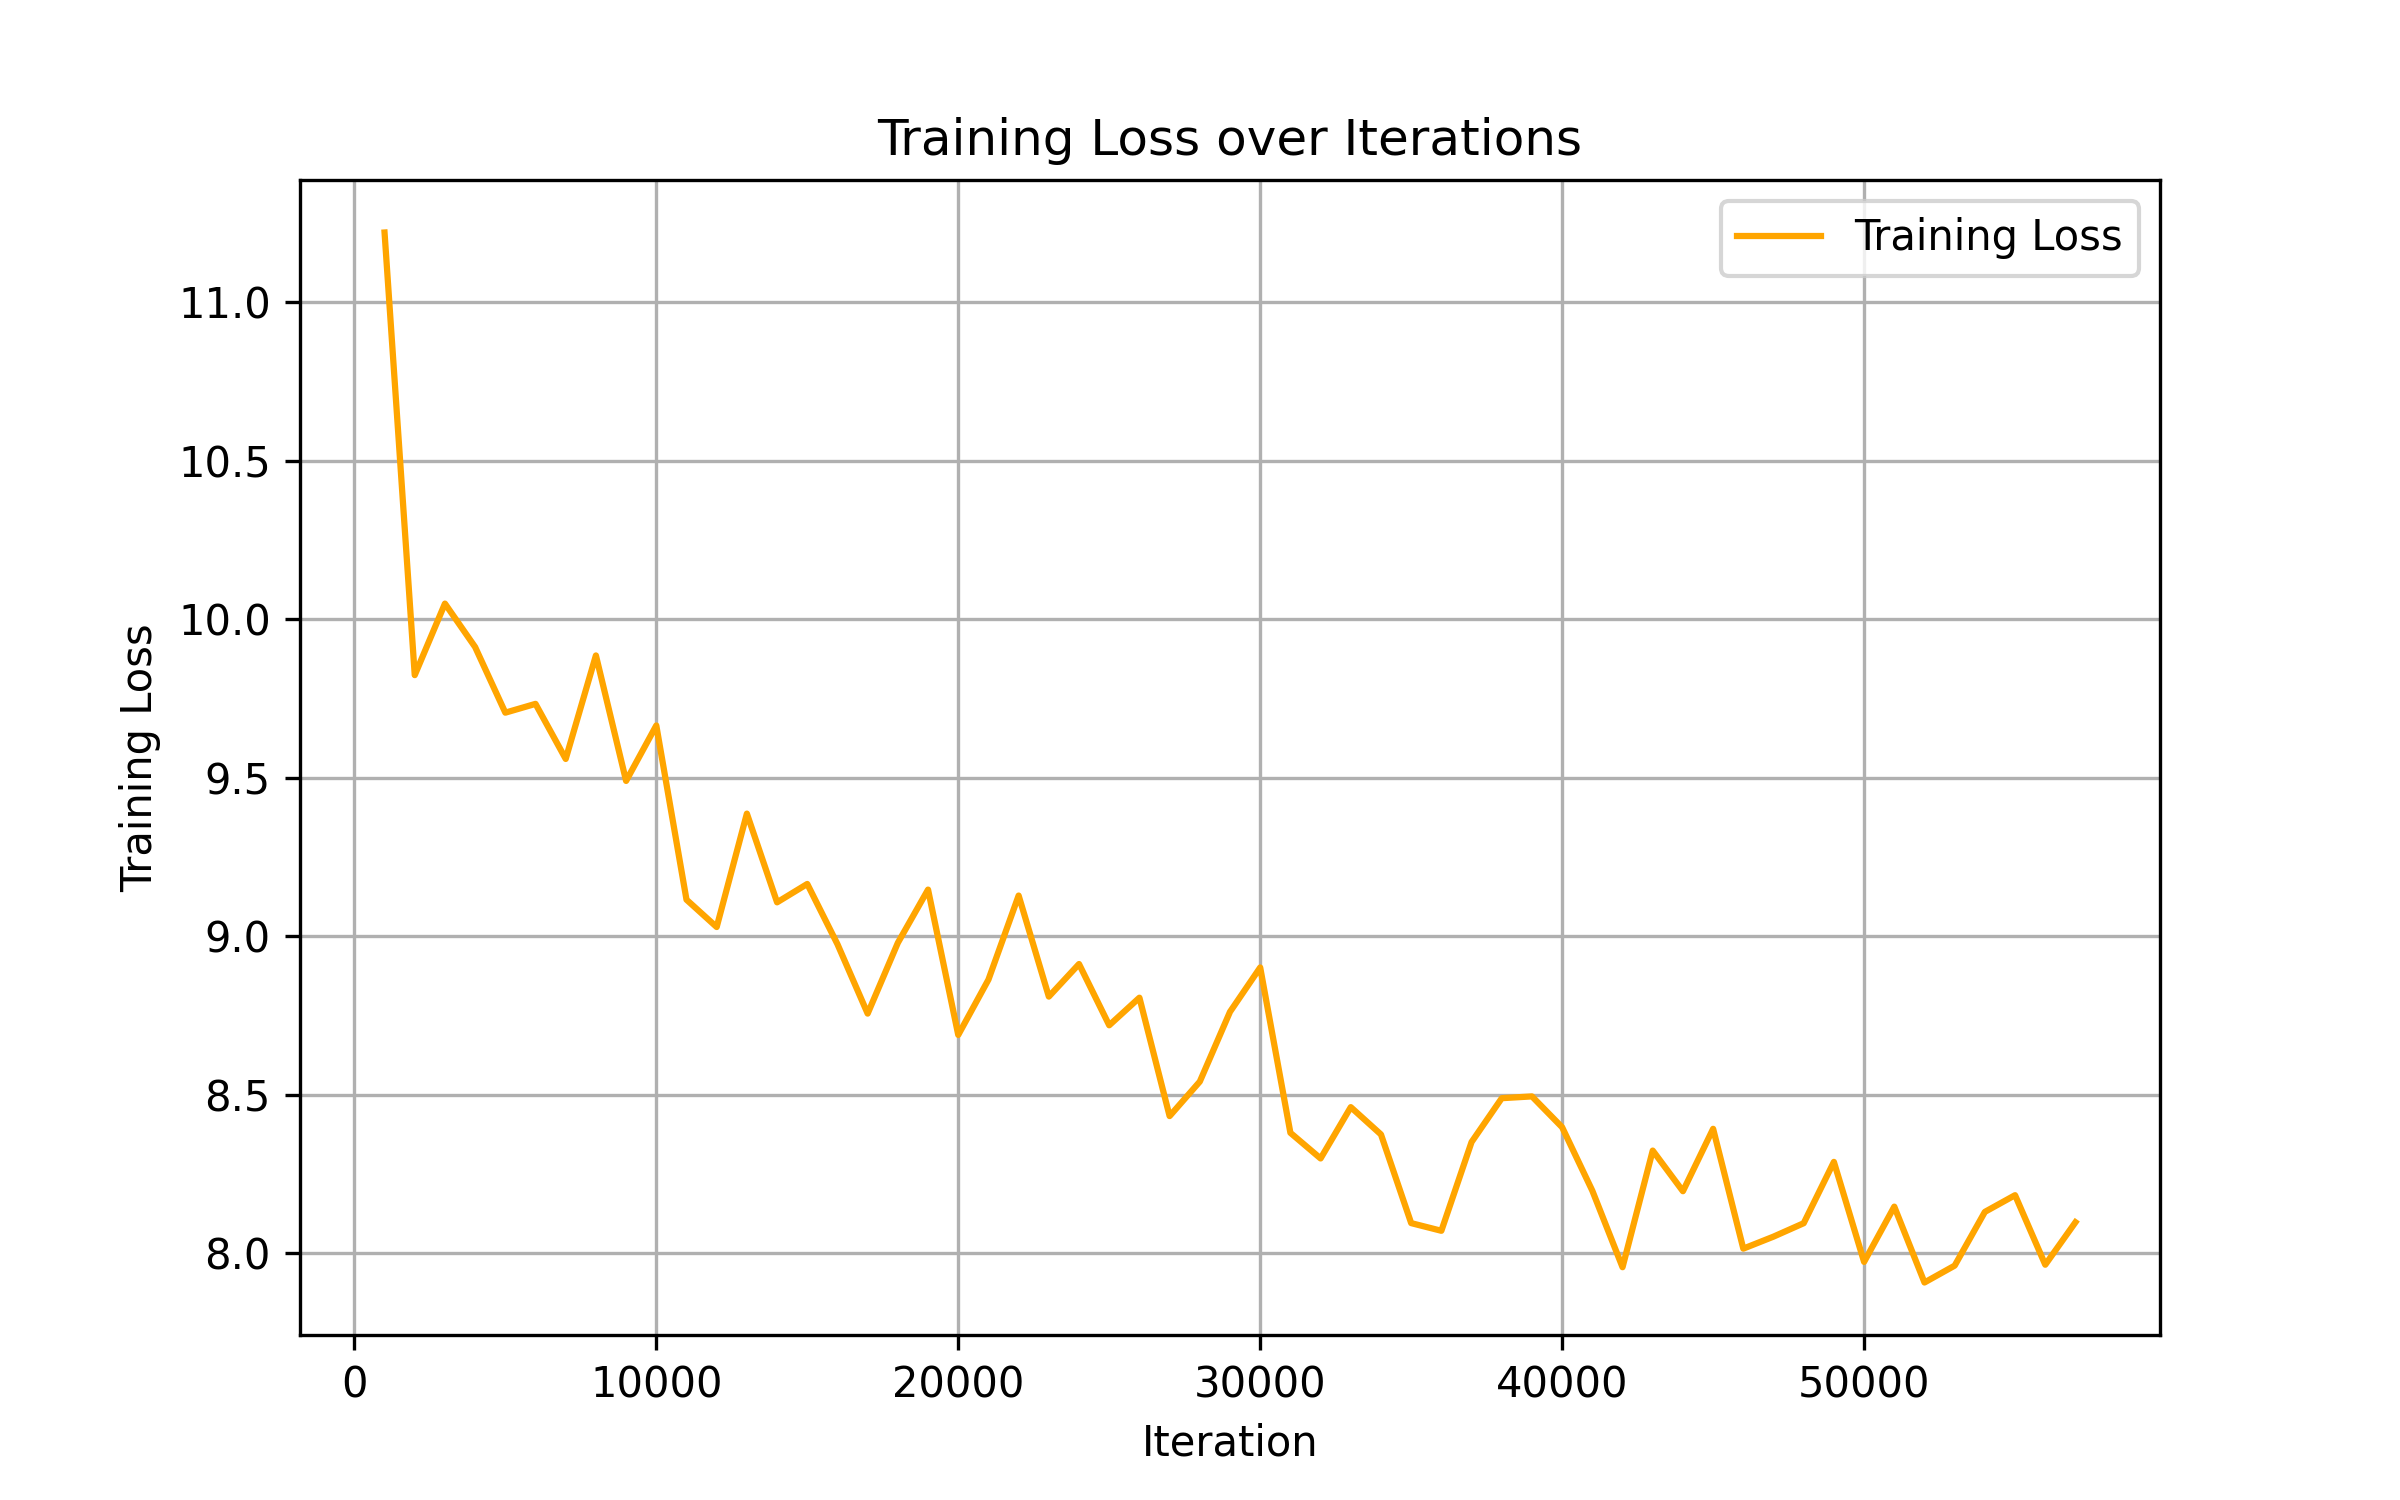
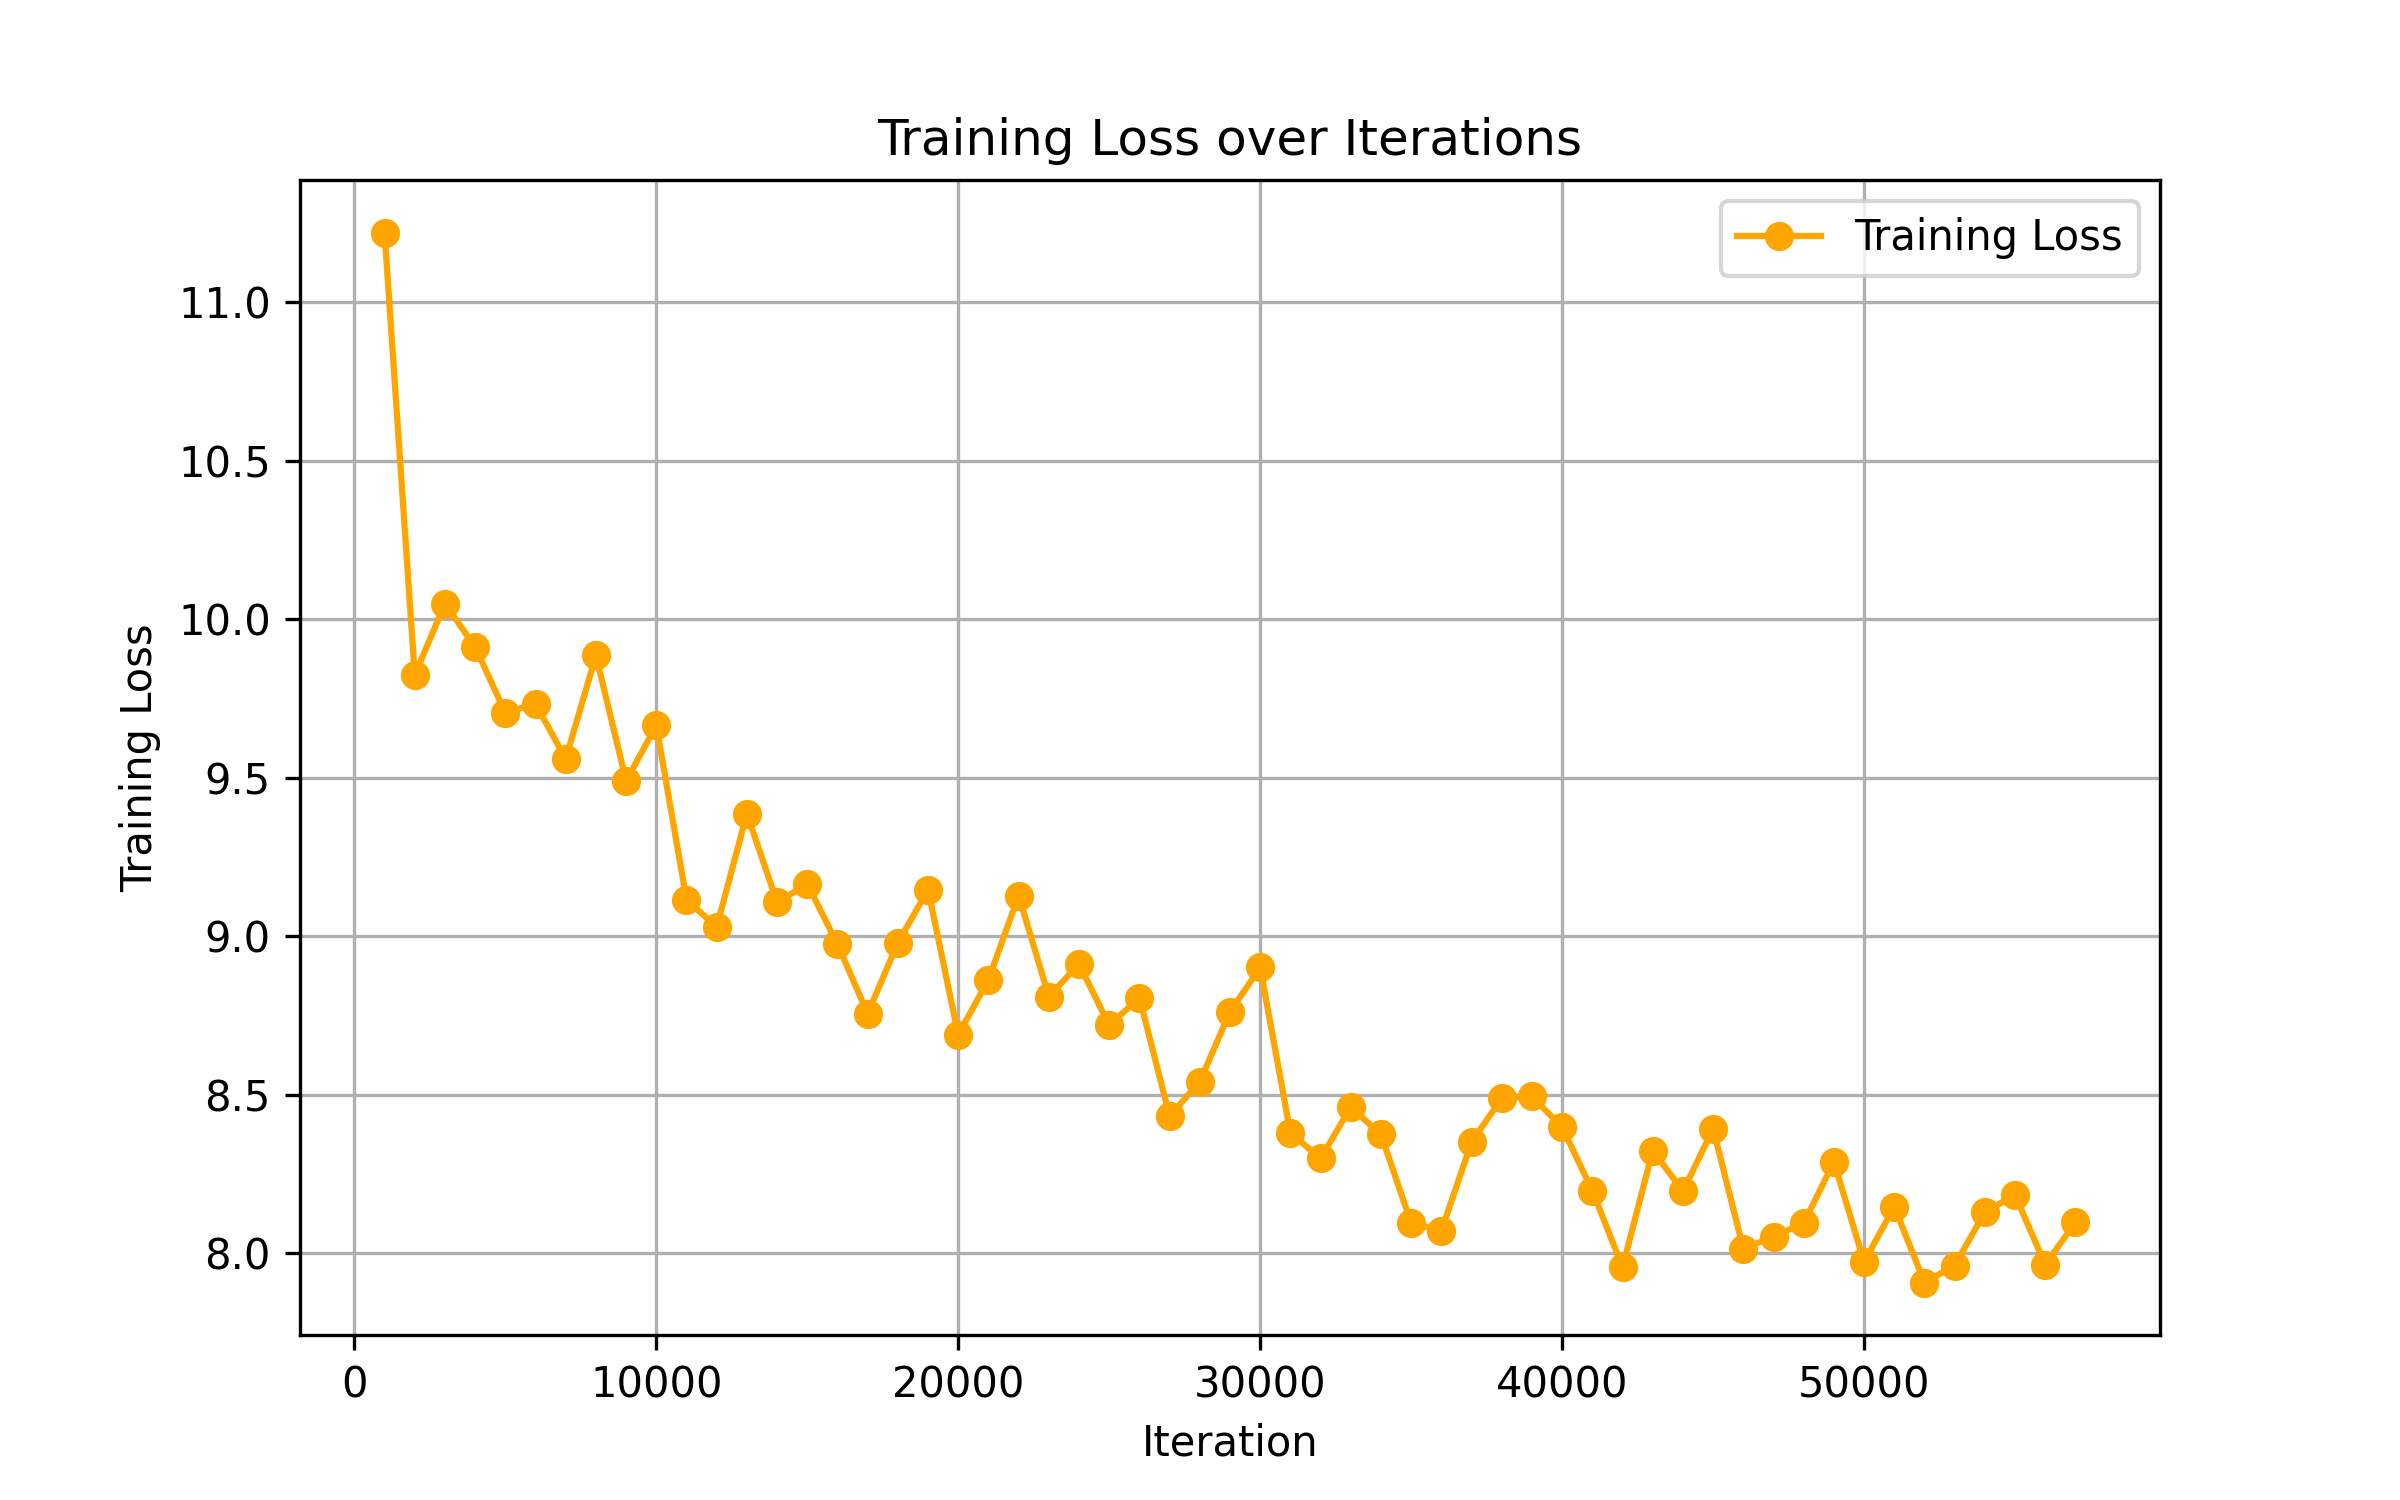
Figures and README

diff --git a/model_graphs.py b/model_graphs.py
@@ -5,6 +5,8 @@ import numpy as np
 
 # --- Paths ---
 logfile = "masif/data/masif_ppi_search/nn_models/sc05/all_feat/model_data/log.txt"
+pos_file = "pos_dists.npy"
+neg_file = "neg_dists.npy"
 
 # --- Regex patterns ---
 iter_pattern = re.compile(r"Iteration (\d+) validation roc auc: ([0-9\.eE+-]+)")
@@ -14,7 +16,6 @@ mean_neg_pattern = re.compile(r"Mean validation negative score: ([0-9\.eE+-]+)")
 
 # --- Lists to store values ---
 iterations = []
-val_aucs = []
 train_loss = []
 mean_pos_scores = []
 mean_neg_scores = []
@@ -23,19 +24,18 @@ last_train_loss = None
 
 with open(logfile, "r") as f:
     for line in f:
+
         # Training loss
         match_loss = train_loss_pattern.search(line)
         if match_loss:
             last_train_loss = float(match_loss.group(1))
 
-        # Validation ROC
+        # Validation iteration → append loss
         match_iter = iter_pattern.search(line)
         if match_iter:
             iter_num = int(match_iter.group(1))
-            val_auc_val = float(match_iter.group(2))
-            if iter_num != 0:  # skip first iteration
+            if iter_num != 0:
                 iterations.append(iter_num)
-                val_aucs.append(val_auc_val)
                 train_loss.append(last_train_loss if last_train_loss is not None else np.nan)
 
         # Mean positive score
@@ -49,10 +49,8 @@ with open(logfile, "r") as f:
             mean_neg_scores.append(float(match_neg.group(1)))
 
 # --- Align lengths ---
-min_len = min(len(iterations), len(val_aucs), len(train_loss),
-              len(mean_pos_scores), len(mean_neg_scores))
+min_len = min(len(iterations), len(train_loss), len(mean_pos_scores), len(mean_neg_scores))
 iterations = iterations[:min_len]
-val_aucs = val_aucs[:min_len]
 train_loss = train_loss[:min_len]
 mean_pos_scores = mean_pos_scores[:min_len]
 mean_neg_scores = mean_neg_scores[:min_len]
@@ -61,14 +59,13 @@ mean_neg_scores = mean_neg_scores[:min_len]
 df = pd.DataFrame({
     "iteration": iterations,
     "train_loss": train_loss,
-    "val_auc": val_aucs,
     "mean_pos_score": mean_pos_scores,
     "mean_neg_score": mean_neg_scores
 })
 
-# --- Plot Training Loss ---
+# --- Plot training loss ---
 plt.figure(figsize=(8,5))
-plt.plot(df['iteration'], df['train_loss'], color='orange', label='Training Loss')
+plt.plot(df['iteration'], df['train_loss'], marker='o', label='Training Loss', color='orange')
 plt.xlabel("Iteration")
 plt.ylabel("Training Loss")
 plt.title("Training Loss over Iterations")
@@ -77,34 +74,56 @@ plt.legend()
 plt.savefig("training_loss.png", dpi=300)
 plt.close()
 
-# --- Plot Validation ROC AUC ---
+# --- Plot mean positive vs negative distances ---
 plt.figure(figsize=(8,5))
-plt.plot(df['iteration'], df['val_auc'], color='blue', label='Validation ROC AUC')
+plt.plot(df['iteration'], df['mean_pos_score'], marker='o', label='Mean positive score', color='blue')
+plt.plot(df['iteration'], df['mean_neg_score'], marker='o', label='Mean negative score', color='red')
 plt.xlabel("Iteration")
-plt.ylabel("Validation ROC AUC")
-plt.title("Validation ROC AUC over Iterations")
+plt.ylabel("Mean distance")
+plt.title("Mean positive vs negative scores over iterations")
 plt.grid(True)
 plt.legend()
-plt.savefig("val_auc.png", dpi=300)
+plt.savefig("mean_scores_over_iterations.png", dpi=300)
 plt.close()
 
-# --- Compute ROC curve manually using mean scores ---
-# Flip the scores: smaller distance = more likely positive
-y_true = np.array([1]*len(mean_pos_scores) + [0]*len(mean_neg_scores))
-y_scores = np.array([-s for s in mean_pos_scores] + [-s for s in mean_neg_scores])  # flip
+# --- Scatter plot ---
+plt.figure(figsize=(6,6))
+plt.scatter(df['mean_neg_score'], df['mean_pos_score'], c=df['iteration'], cmap='viridis')
+plt.xlabel("Mean negative score")
+plt.ylabel("Mean positive score")
+plt.title("Mean positive vs negative scores (colour = iteration)")
+plt.grid(True)
+plt.savefig("pos_vs_neg_scatter.png", dpi=300)
+plt.close()
 
-# Sort scores descending
-sorted_idx = np.argsort(y_scores)[::-1]
-y_true_sorted = y_true[sorted_idx]
+print("Saved: training_loss.png, mean_scores_over_iterations.png, pos_vs_neg_scatter.png")
 
-# Compute TPR and FPR
+# ====================================================
+# === NEW SECTION: Load pos/neg distances & ROC AUC ===
+# ====================================================
+
+print("Loading distance files for ROC AUC...")
+
+posd = np.load(pos_file)
+negd = np.load(neg_file)
+
+ytrue = np.concatenate([np.ones_like(posd), np.zeros_like(negd)])
+ypred = 1.0 / np.concatenate([posd, negd])  # smaller dist = higher score
+
+# --- Manual ROC computation ---
+combined = np.vstack([ypred, ytrue]).T
+combined = combined[combined[:,0].argsort()[::-1]]  # sort by score descending
+
 tpr = []
 fpr = []
-P = np.sum(y_true == 1)
-N = np.sum(y_true == 0)
+
+P = np.sum(ytrue == 1)
+N = np.sum(ytrue == 0)
+
 tp = 0
 fp = 0
-for label in y_true_sorted:
+
+for _, label in combined:
     if label == 1:
         tp += 1
     else:
@@ -114,18 +133,20 @@ for label in y_true_sorted:
 
 tpr = np.array(tpr)
 fpr = np.array(fpr)
-roc_auc = np.trapz(tpr, fpr)
 
-# --- Plot ROC Curve ---
+roc_auc = np.trapz(tpr, fpr)
+print(f"ROC AUC = {roc_auc:.4f}")
+
+# --- Plot ROC curve ---
 plt.figure(figsize=(6,6))
-plt.plot(fpr, tpr, color='blue', label=f'ROC curve (AUC = {roc_auc:.3f})')
-plt.plot([0,1], [0,1], 'k--', label='Random')
+plt.plot(fpr, tpr, label=f"AUC = {roc_auc:.3f}")
+plt.plot([0,1], [0,1], 'k--')
 plt.xlabel("False Positive Rate")
 plt.ylabel("True Positive Rate")
-plt.title("ROC Curve from log.txt")
-plt.legend()
+plt.title("ROC Curve (from pos_dists.npy and neg_dists.npy)")
 plt.grid(True)
-plt.savefig("roc_curve.png", dpi=300)
+plt.legend()
+plt.savefig("roc_auc_curve.png", dpi=300)
 plt.close()
 
-print("Plots saved: training_loss.png, val_auc.png, roc_curve.png")
+print("Saved: roc_auc_curve.png")
